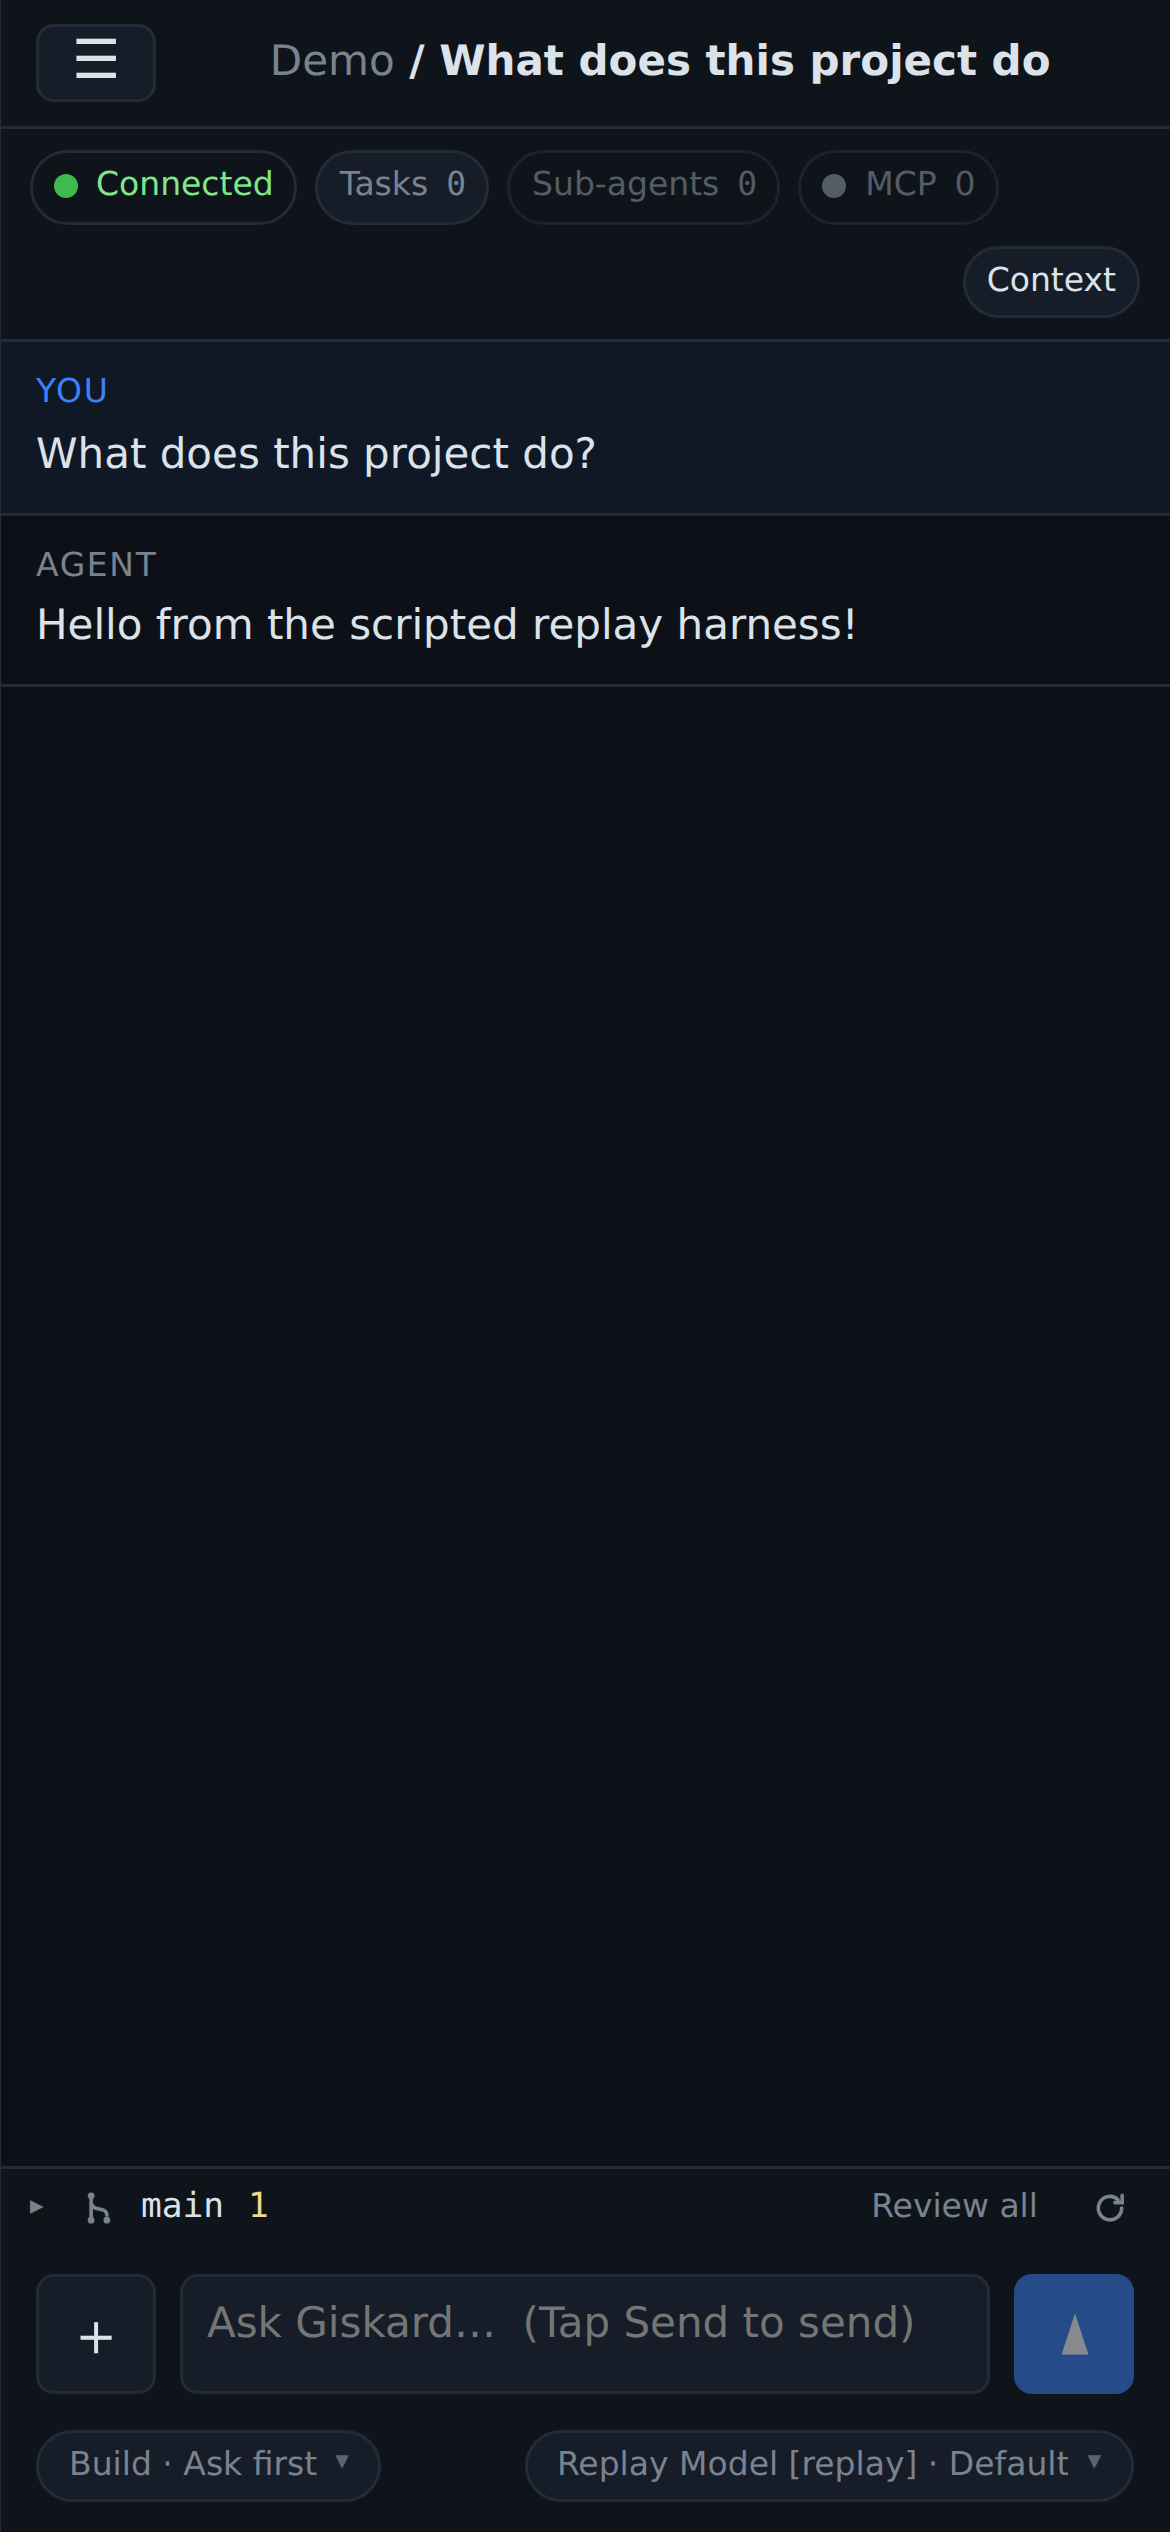
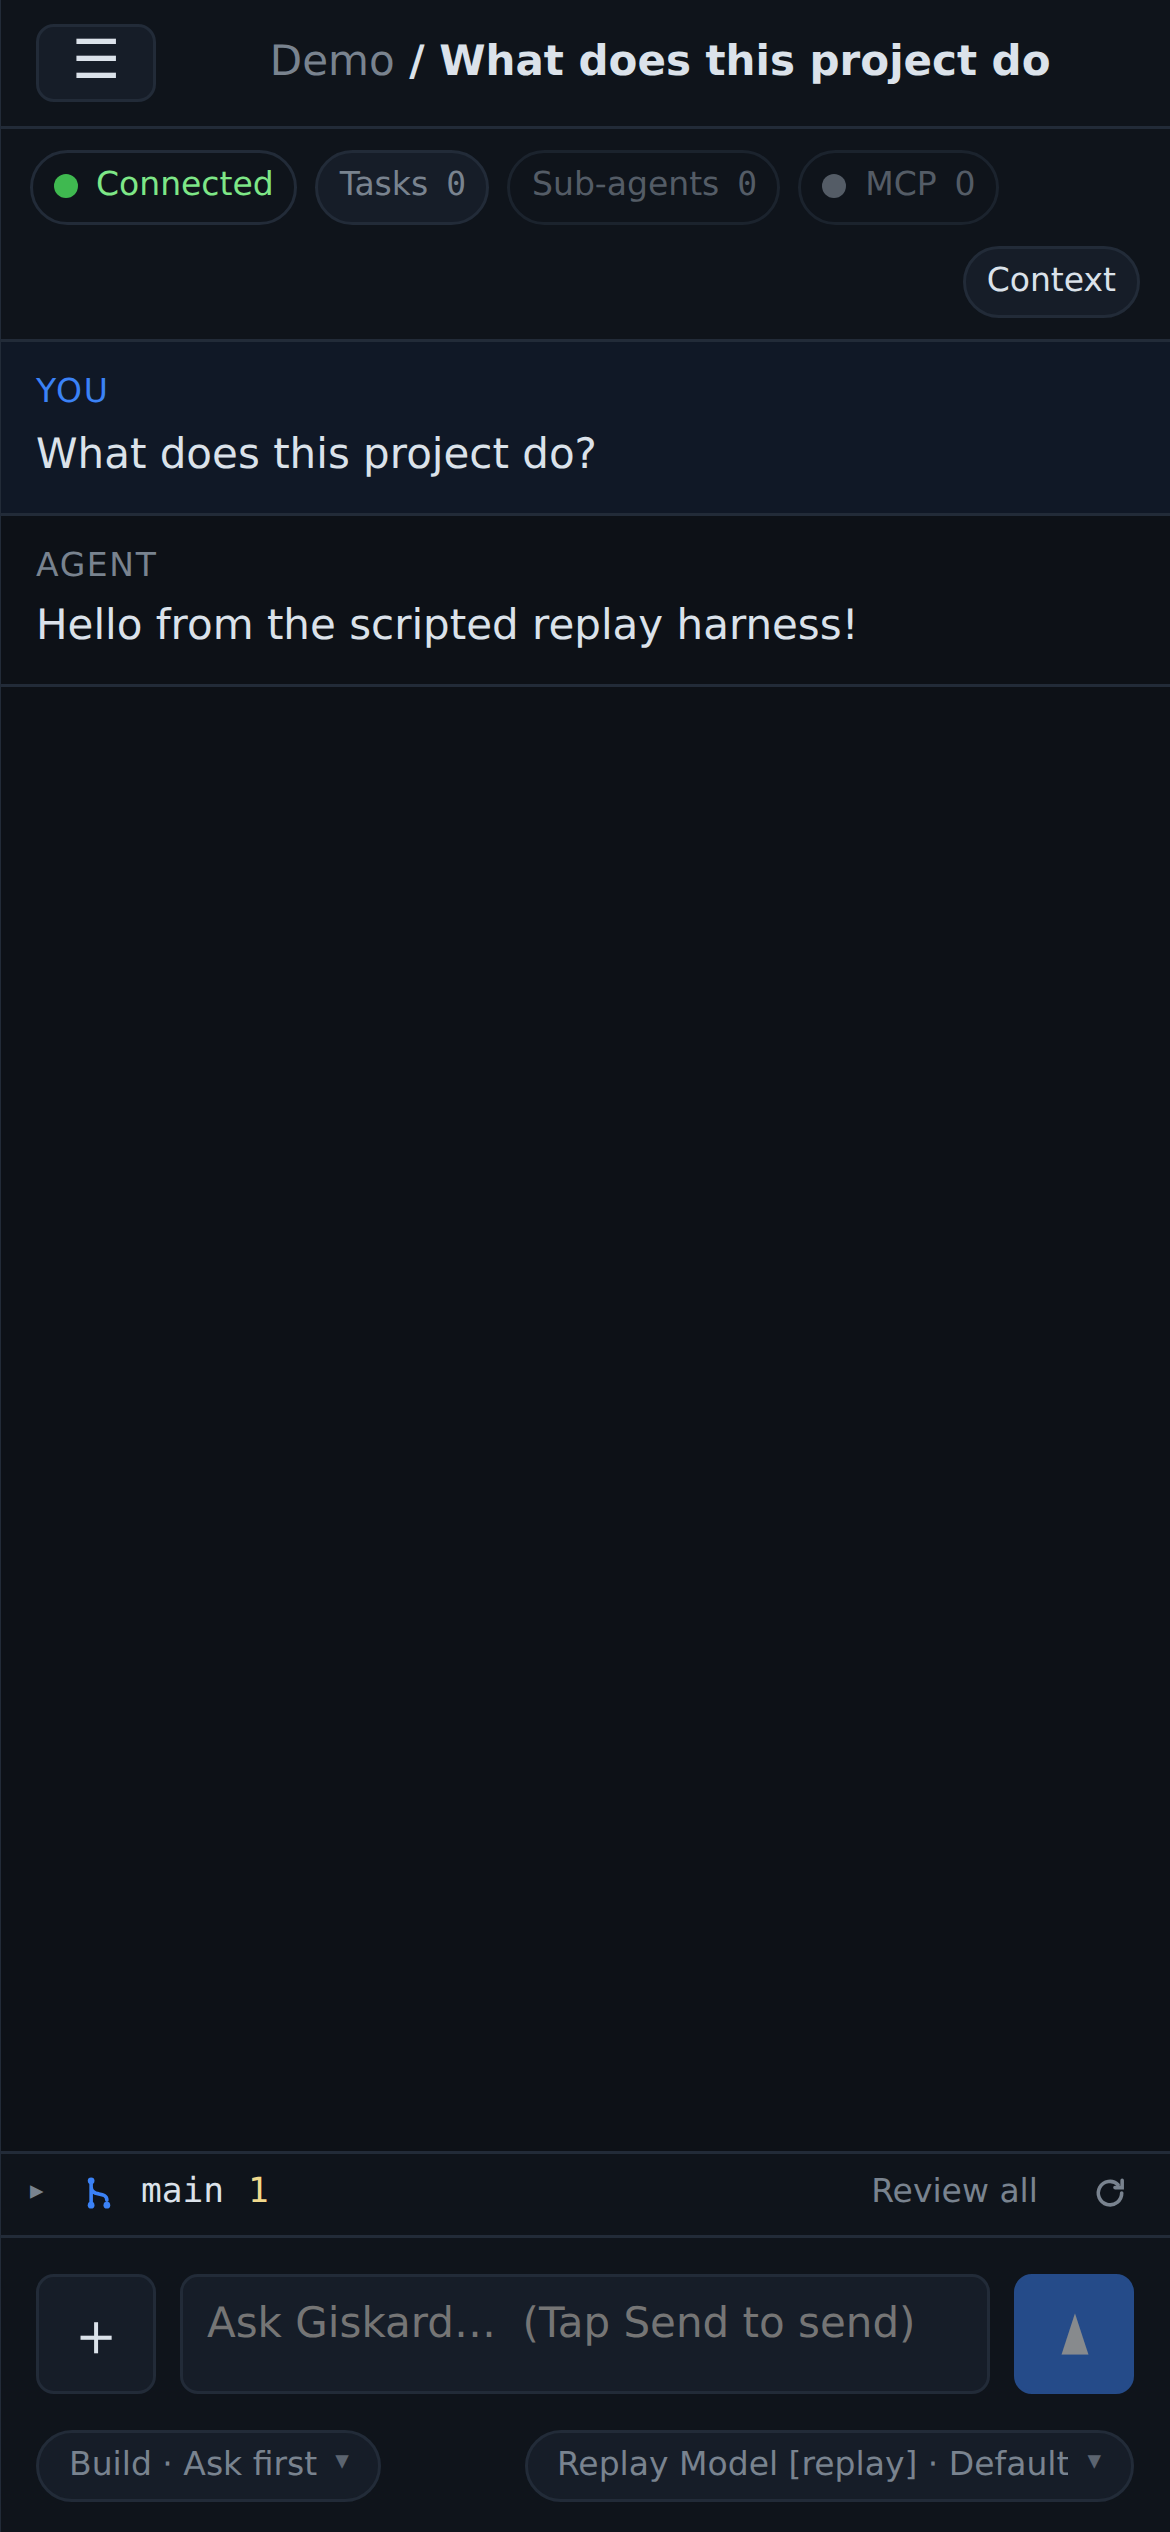
Give the Git status line its own edges and the theme's accent
The line sits between the transcript and the composer, so it needs a rule
on each boundary to read as its own band. It had none below: collapsed, it
ran straight into the composer as though the two were one control, and
expanded, the file list was separated from the head above it but not from
the composer below it. The composer's own border was being suppressed
whenever the line was present; it no longer is.

The branch glyph now takes `--accent`, which each appearance theme sets for
itself — blue under IDE and Bubbles, green under Terminal — so it reads as
part of the theme rather than as one more grey mark in a row of them. Only
the glyph: the refresh control beside it is an action and stays muted, and
the conflict and error states keep their red.

Claude-Session: https://claude.ai/code/session_01DEjHUhgZUTTwPtYKjA7YN2

diff --git a/tests/e2e/tests/git-status.spec.ts b/tests/e2e/tests/git-status.spec.ts
@@ -89,6 +89,51 @@ test.describe("git status line", () => {
     expect(await shorten("main", 60)).toBe("main");
   });
 
+  // The line sits between the transcript and the composer, and has to read as its own band rather
+  // than as part of either. That means a rule on each boundary — including below the file list when
+  // it is open, which is the edge that is easy to lose.
+  test("keeps a separator on every edge, collapsed and expanded", async ({ page }) => {
+    const borderTop = (selector: string) =>
+      page.locator(selector).evaluate((node) => getComputedStyle(node).borderTopWidth);
+
+    expect(await borderTop("#gitLine")).toBe("1px");
+    expect(await borderTop("#composer")).toBe("1px");
+
+    await page.locator("#gitLineToggle").click();
+    await expect(page.locator("#gitLineBody")).toBeVisible();
+    // Head from list, and list from composer.
+    expect(await borderTop("#gitLineBody")).toBe("1px");
+    expect(await borderTop("#composer")).toBe("1px");
+  });
+
+  // The branch glyph carries the appearance theme's accent, so it belongs to the theme rather than
+  // being another grey mark in the row.
+  test("tints the branch glyph with the theme accent", async ({ page }) => {
+    const iconColor = async (theme: string) => {
+      await page.evaluate((t) => document.documentElement.setAttribute("data-appearance", t), theme);
+      return page.locator("#gitIcon").evaluate((node) => getComputedStyle(node).color);
+    };
+    const accent = async () =>
+      page.evaluate(() =>
+        getComputedStyle(document.documentElement).getPropertyValue("--accent").trim(),
+      );
+
+    for (const theme of ["ide", "bubbles", "terminal"]) {
+      const [color, themeAccent] = [await iconColor(theme), await accent()];
+      expect(themeAccent).not.toBe("");
+      // Compare through a canvas-free parse: the computed colour is rgb(), the token is a hex.
+      const expected = await page.evaluate((hex) => {
+        const probe = document.createElement("span");
+        probe.style.color = hex;
+        document.body.append(probe);
+        const value = getComputedStyle(probe).color;
+        probe.remove();
+        return value;
+      }, themeAccent);
+      expect(color, `branch glyph should match the ${theme} accent`).toBe(expected);
+    }
+  });
+
   // An untracked directory is reported collapsed, with a trailing slash. Its own name is what the
   // reader is looking for, so it has to end up in the bold segment rather than leaving the row
   // dimmed with an empty filename.

diff --git a/crates/giskard-server/static/app.css b/crates/giskard-server/static/app.css
@@ -486,6 +486,10 @@
   .git-line-toggle:hover:not(:disabled) { color:var(--fg); }
   .git-line-toggle:disabled { cursor:default; }
   .git-icon { width:12px; height:12px; flex:none; }
+  /* The branch glyph takes the appearance theme's accent, so it tracks whatever the theme sets
+     (blue in IDE and Bubbles, green in Terminal) instead of being another grey mark in the row.
+     Scoped to the toggle: the refresh control beside it is an action, and stays muted. */
+  .git-line-toggle .git-icon { color:var(--accent); }
   .git-caret { flex:none; width:9px; font-size:9px; line-height:1; color:var(--muted); transition:transform .12s; }
   .git-caret[hidden] { display:none; }
   .git-line.expanded .git-caret { transform:rotate(90deg); }
@@ -566,7 +570,6 @@
   .git-empty { padding:8px 6px; color:var(--muted); font-size:12px; }
 
   .composer { display:flex; gap:8px; padding:12px; border-top:1px solid var(--border); background:var(--panel); }
-  .git-line:not([hidden]) + .composer { border-top:0; padding-top:8px; }
   .composer.drag-over { outline:2px solid var(--accent); outline-offset:-4px; background:var(--panel2); }
   .composer #attachBtn {
     width:40px; min-width:40px; height:40px;
